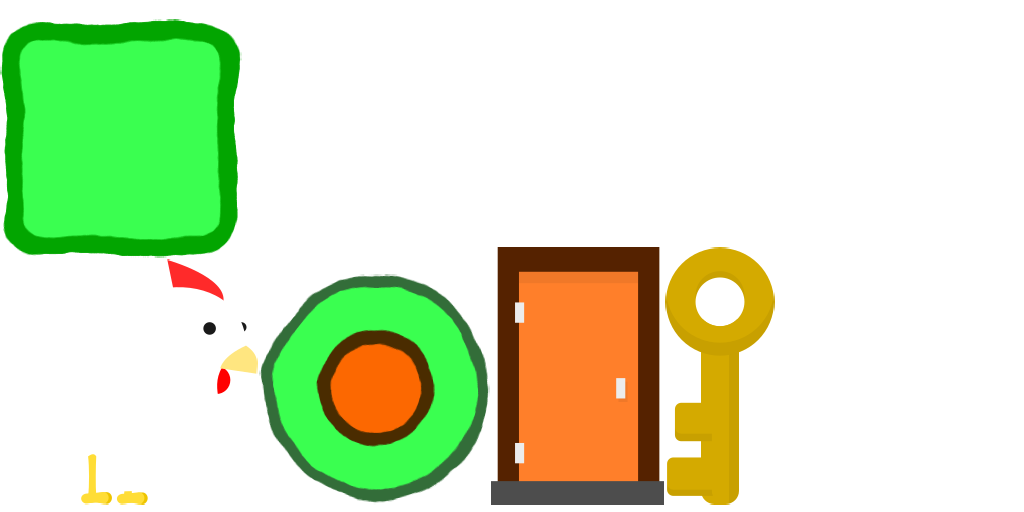
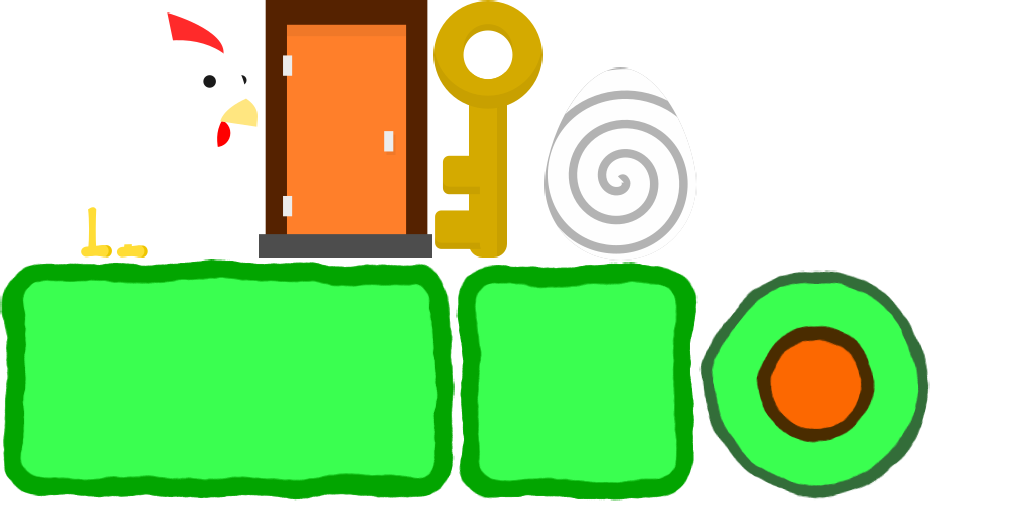
WIP eggs and inverting gravity

diff --git a/core/src/me/manabreak/ld38/Level.java b/core/src/me/manabreak/ld38/Level.java
@@ -59,16 +59,28 @@ public class Level {
             createStatic(stat);
         }
 
-        JsonValue keys = value.get("keys");
-        keysTotal = keys.size;
-        for (int i = 0; i < keys.size; ++i) {
-            JsonValue key = keys.get(i);
-            createKey(key);
+        if (value.has("keys")) {
+            JsonValue keys = value.get("keys");
+            keysTotal = keys.size;
+            for (int i = 0; i < keys.size; ++i) {
+                JsonValue key = keys.get(i);
+                createKey(key);
+            }
+        }
+
+        if (value.has("eggs")) {
+            JsonValue eggs = value.get("eggs");
+            for (int i = 0; i < eggs.size; ++i) {
+                JsonValue egg = eggs.get(i);
+                createEgg(egg);
+            }
         }
 
         nextLevel = value.getString("next_level");
 
         createDoor(value);
+
+        stage.startLevel();
     }
 
     public void clear() {
@@ -113,6 +125,36 @@ public class Level {
 
     }
 
+    private void createEgg(JsonValue value) {
+        float x = value.getFloat("x");
+        float y = value.getFloat("y");
+
+        Body egg = physics.createSphere(1.f, BodyDef.BodyType.StaticBody);
+        egg.getFixtureList().get(0).setSensor(true);
+        physics.setBodyPosition(egg, x, y);
+
+        SpriteActor a = new SpriteActor(Res.create("egg0"));
+        stage.getRoot().addActorAt(0, a);
+        float r = a.sprite.getWidth() / a.sprite.getHeight();
+        a.setSize(3f * r * Physics.INV_SCALE, 3f * Physics.INV_SCALE);
+        a.setOriginCenter();
+        a.setPosition(x * Physics.INV_SCALE - a.getWidth() / 2f, y * Physics.INV_SCALE - a.getHeight() / 2f);
+
+        egg.getFixtureList().get(0).setUserData(new PhysicsCallback() {
+            @Override
+            public void onCollisionBegin(Contact contact, Fixture other) {
+                if(other.getUserData() == stage.getPlayer().getPlayerCallback()) {
+                    stage.getPlayer().invertGravity();
+                }
+            }
+
+            @Override
+            public void onCollisionEnd(Contact contact, Fixture other) {
+
+            }
+        });
+    }
+
     private void createDoor(JsonValue value) {
         float doorX = value.getFloat("door_x");
         float doorY = value.getFloat("door_y");
@@ -137,7 +179,7 @@ public class Level {
                     System.out.println("Player touched door");
                     if (keysCollected == keysTotal) {
                         System.out.println("Level complete!");
-                        queueLoad(nextLevel);
+                        stage.levelComplete();
                     } else {
                         System.out.println("Keys missing...");
                     }
@@ -149,10 +191,6 @@ public class Level {
 
             }
         });
-    }
-
-    private void queueLoad(String s) {
-        levelToLoad = s;
     }
 
     public void act(float dt) {
@@ -219,7 +257,7 @@ public class Level {
             float height = value.getFloat("height");
             body = physics.createBox(width, height, BodyDef.BodyType.StaticBody);
 
-            SpriteActor actor = new SpriteActor(Res.create("rect0"));
+            SpriteActor actor = new SpriteActor(Res.create(value.getString("sprite", "rect0")));
             actor.setSize(width * Physics.INV_SCALE * 1.05f, height * Physics.INV_SCALE * 1.05f);
             stage.addActor(actor);
             actor.setOriginCenter();
@@ -243,5 +281,9 @@ public class Level {
 
     public float getPlayerStartX() {
         return playerStartX;
+    }
+
+    public void loadNext() {
+        levelToLoad = nextLevel;
     }
 }

diff --git a/core/src/me/manabreak/ld38/GameStage.java b/core/src/me/manabreak/ld38/GameStage.java
@@ -1,13 +1,13 @@
 package me.manabreak.ld38;
 
-import com.badlogic.gdx.Gdx;
-import com.badlogic.gdx.Input;
 import com.badlogic.gdx.graphics.Camera;
 import com.badlogic.gdx.graphics.OrthographicCamera;
 import com.badlogic.gdx.graphics.g2d.Sprite;
+import com.badlogic.gdx.math.Interpolation;
 import com.badlogic.gdx.math.MathUtils;
 import com.badlogic.gdx.math.Vector2;
 import com.badlogic.gdx.scenes.scene2d.Stage;
+import com.badlogic.gdx.scenes.scene2d.actions.Actions;
 import com.badlogic.gdx.utils.viewport.ExtendViewport;
 
 public class GameStage extends Stage {
@@ -21,15 +21,18 @@ public class GameStage extends Stage {
     Sprite s;
 
     public GameStage() {
-        super(new ExtendViewport(8f, 8f));
+        super(new ExtendViewport(6f, 6f));
         physics = new Physics();
         initCamera();
 
         s = Res.create("chicken");
 
+        getRoot().setColor(1f, 1f, 1f, 0f);
+
         player = new Player(this);
         level = new Level(this);
-        level.load("0001");
+
+        level.load("0003");
     }
 
     private void initCamera() {
@@ -41,11 +44,6 @@ public class GameStage extends Stage {
     @Override
     public void act(float dt) {
         super.act(dt);
-
-        if (Gdx.input.isKeyJustPressed(Input.Keys.ENTER)) {
-            level.clear();
-            level.load("0002");
-        }
 
         level.act(dt);
 
@@ -60,7 +58,7 @@ public class GameStage extends Stage {
         physics.act(dt);
 
         OrthographicCamera cam = (OrthographicCamera) getCamera();
-        cam.up.set(0f, 1f, 0f);
+        cam.up.set(0f, player.isInverted() ? -1f : 1f, 0f);
         cam.direction.set(0f, 0f, -1f);
         // cam.position.x = MathUtils.lerp(cam.position.x, player.getBodyPosition().x, dt * CAM_LERP_SPEED);
         // cam.position.y = MathUtils.lerp(cam.position.y, player.getBodyPosition().y, dt * CAM_LERP_SPEED);
@@ -81,5 +79,19 @@ public class GameStage extends Stage {
 
     public Player getPlayer() {
         return player;
+    }
+
+    public void levelComplete() {
+        getRoot().addAction(Actions.sequence(Actions.fadeOut(2f, Interpolation.fade),
+                Actions.run(new Runnable() {
+                    @Override
+                    public void run() {
+                        level.loadNext();
+                    }
+                })));
+    }
+
+    public void startLevel() {
+        getRoot().addAction(Actions.fadeIn(2f, Interpolation.fade));
     }
 }

diff --git a/core/src/me/manabreak/ld38/Player.java b/core/src/me/manabreak/ld38/Player.java
@@ -65,6 +65,7 @@ public class Player {
     private SpriteActor actor;
     private boolean facingRight = true;
     private boolean walking = false;
+    private boolean inverted = false;
 
     public Player(GameStage stage) {
         this.stage = stage;
@@ -98,11 +99,15 @@ public class Player {
     }
 
     public void act(float dt) {
-        body.applyForce(playerGravity.x, playerGravity.y, 0f, 0f, true);
+        if (inverted) {
+            body.applyForce(-playerGravity.x, -playerGravity.y, 0f, 0f, true);
+        } else {
+            body.applyForce(playerGravity.x, playerGravity.y, 0f, 0f, true);
+        }
 
         float velX = 0f;
         if (Gdx.input.isKeyPressed(Input.Keys.LEFT)) {
-            velX -= MOVE_VEL;
+            velX -= inverted ? -MOVE_VEL : MOVE_VEL;
             facingRight = false;
             if (!walking) {
                 startWalkAnimation();
@@ -110,7 +115,7 @@ public class Player {
             walking = true;
         }
         if (Gdx.input.isKeyPressed(Input.Keys.RIGHT)) {
-            velX += MOVE_VEL;
+            velX += inverted ? -MOVE_VEL : MOVE_VEL;
             facingRight = true;
             if (!walking) {
                 startWalkAnimation();
@@ -180,7 +185,7 @@ public class Player {
         */
 
         actor.setRotation((body.getAngle()) * MathUtils.radDeg);
-        actor.sprite.setFlip(!facingRight, false);
+        actor.sprite.setFlip(!facingRight, inverted);
 
         actor.setPosition(x, y);
     }
@@ -219,5 +224,13 @@ public class Player {
 
     public PhysicsCallback getPlayerCallback() {
         return bodyCallback;
+    }
+
+    public void invertGravity() {
+        inverted = !inverted;
+    }
+
+    public boolean isInverted() {
+        return inverted;
     }
 }

diff --git a/core/src/me/manabreak/ld38/SpriteActor.java b/core/src/me/manabreak/ld38/SpriteActor.java
@@ -16,7 +16,7 @@ public class SpriteActor extends Actor {
     @Override
     public void draw(Batch batch, float parentAlpha) {
         super.draw(batch, parentAlpha);
-        sprite.draw(batch);
+        sprite.draw(batch, parentAlpha);
     }
 
     @Override
